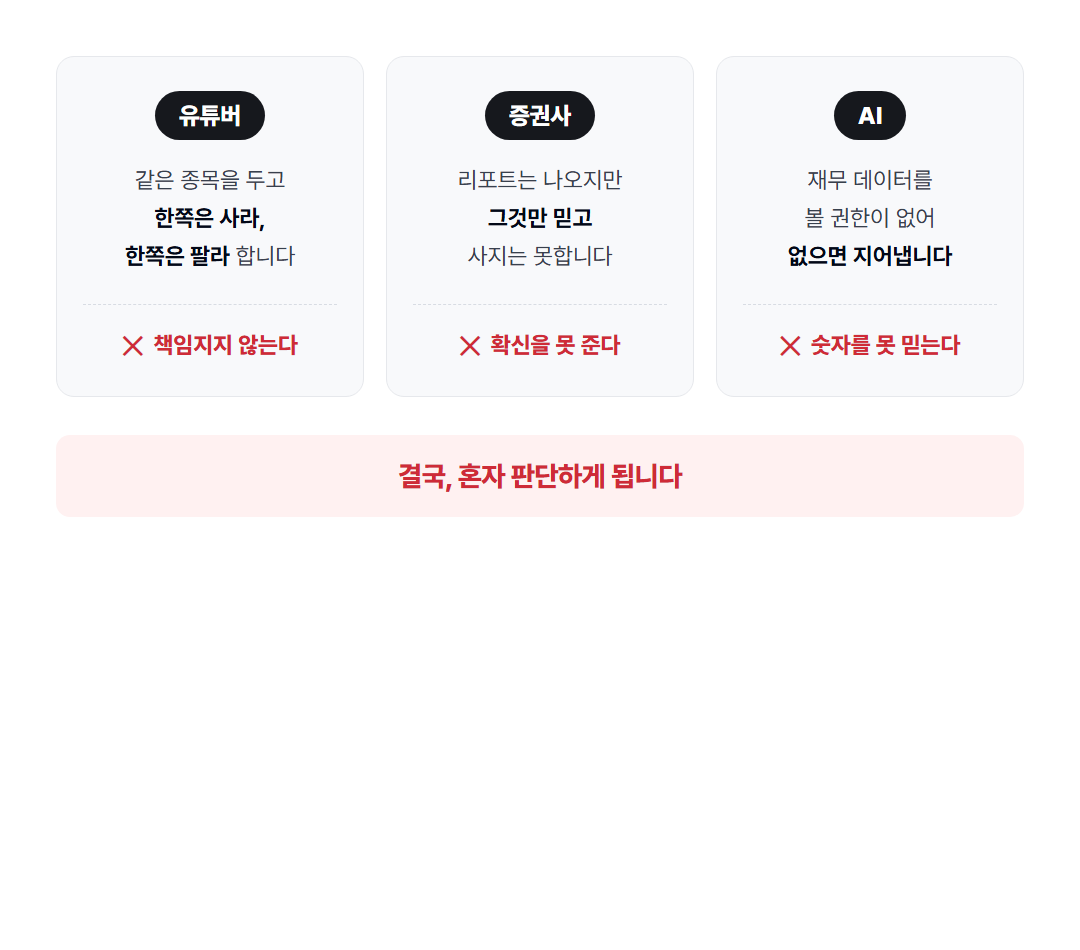
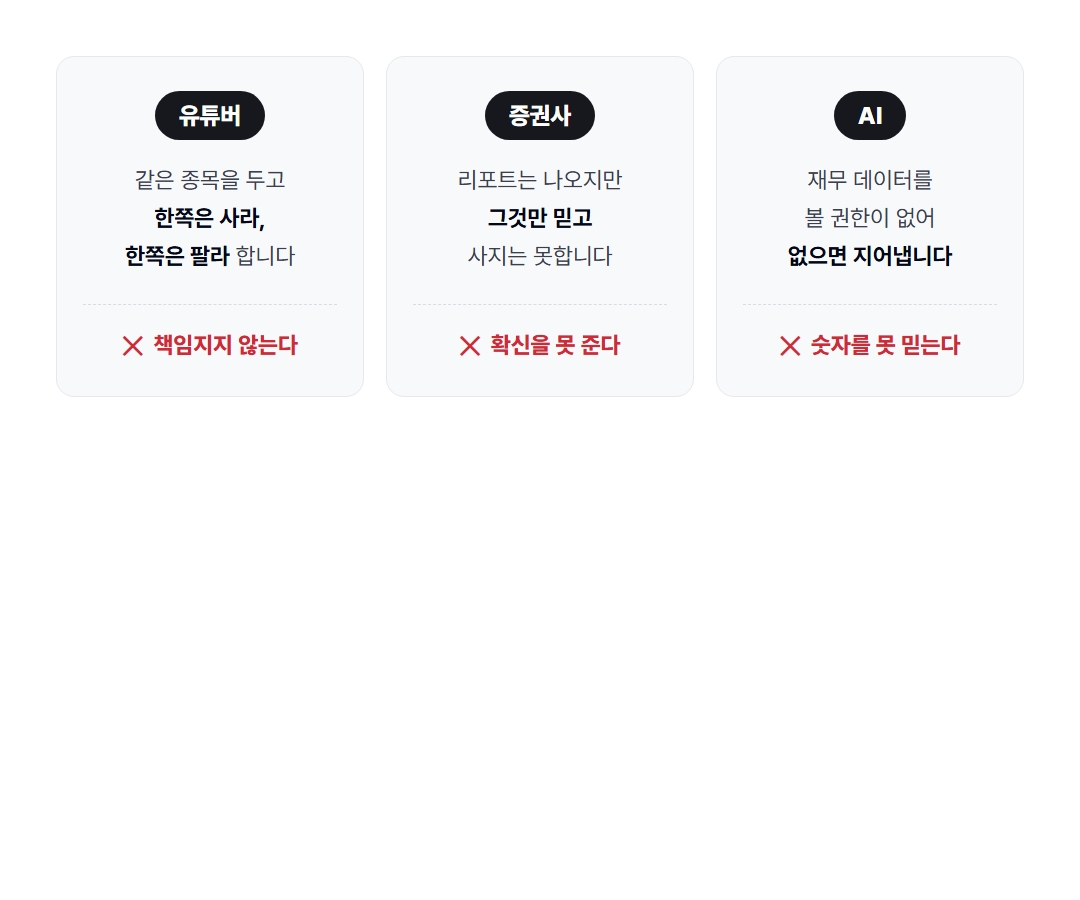
중복 2건 제거: mo_02 하단 문구 + 블록7 흐름도
1. 비교 다이어그램(mo_02) 맨 아래 "결국, 혼자 판단하게 됩니다"가 바로 다음
   레드 밴드 문구와 겹침 -> 이미지에서 제거 후 재캡처 (밴드=확정본 카피 유지)
2. 블록7 4단계 흐름도(mo_07) 제거 — 바로 위 텍스트 카드 4장이 같은 내용을
   더 풍부하게 담고 있어 완전 중복이었음. 도구 실화면(mo_08)은 유지

검증: "혼자 판단" 1회만 등장, mo_07 잔존 0, 새 mo_02 로드 정상, 폼 정상.

diff --git a/index.html b/index.html
@@ -968,13 +968,6 @@
       </div>
     </div>
 
-    <figure class="slot" data-file="img/sales/07" data-spec="블록7 · 네 단계 전체 흐름도 (필터링→분석→적정가→공시)">
-      <picture>
-        <source media="(min-width:768px)" srcset="img/sales/pc_07.jpg">
-        <img src="img/sales/mo_07.jpg" alt="재무 필터링, AI 재무분석기, 적정가 판정, 공시 검증으로 이어지는 네 단계 흐름" loading="lazy">
-      </picture>
-    </figure>
-
     <figure class="slot" data-file="img/sales/08" data-spec="블록7 · 실제 도구 사용 화면 (종목명 입력 → 결과)">
       <picture>
         <source media="(min-width:768px)" srcset="img/sales/pc_08.jpg">

diff --git a/img-src/02.html b/img-src/02.html
@@ -30,5 +30,4 @@ body { width:1080px; font-family:"Pretendard Variable",Pretendard,"Malgun Gothic
     <div class="say">재무 데이터를<br>볼 권한이 없어<br><b>없으면 지어냅니다</b></div>
     <div class="verdict"><span class="x">숫자를 못 믿는다</span></div></div>
 </div>
-<div class="bottom">결국, 혼자 판단하게 됩니다</div>
 </div></body></html>
